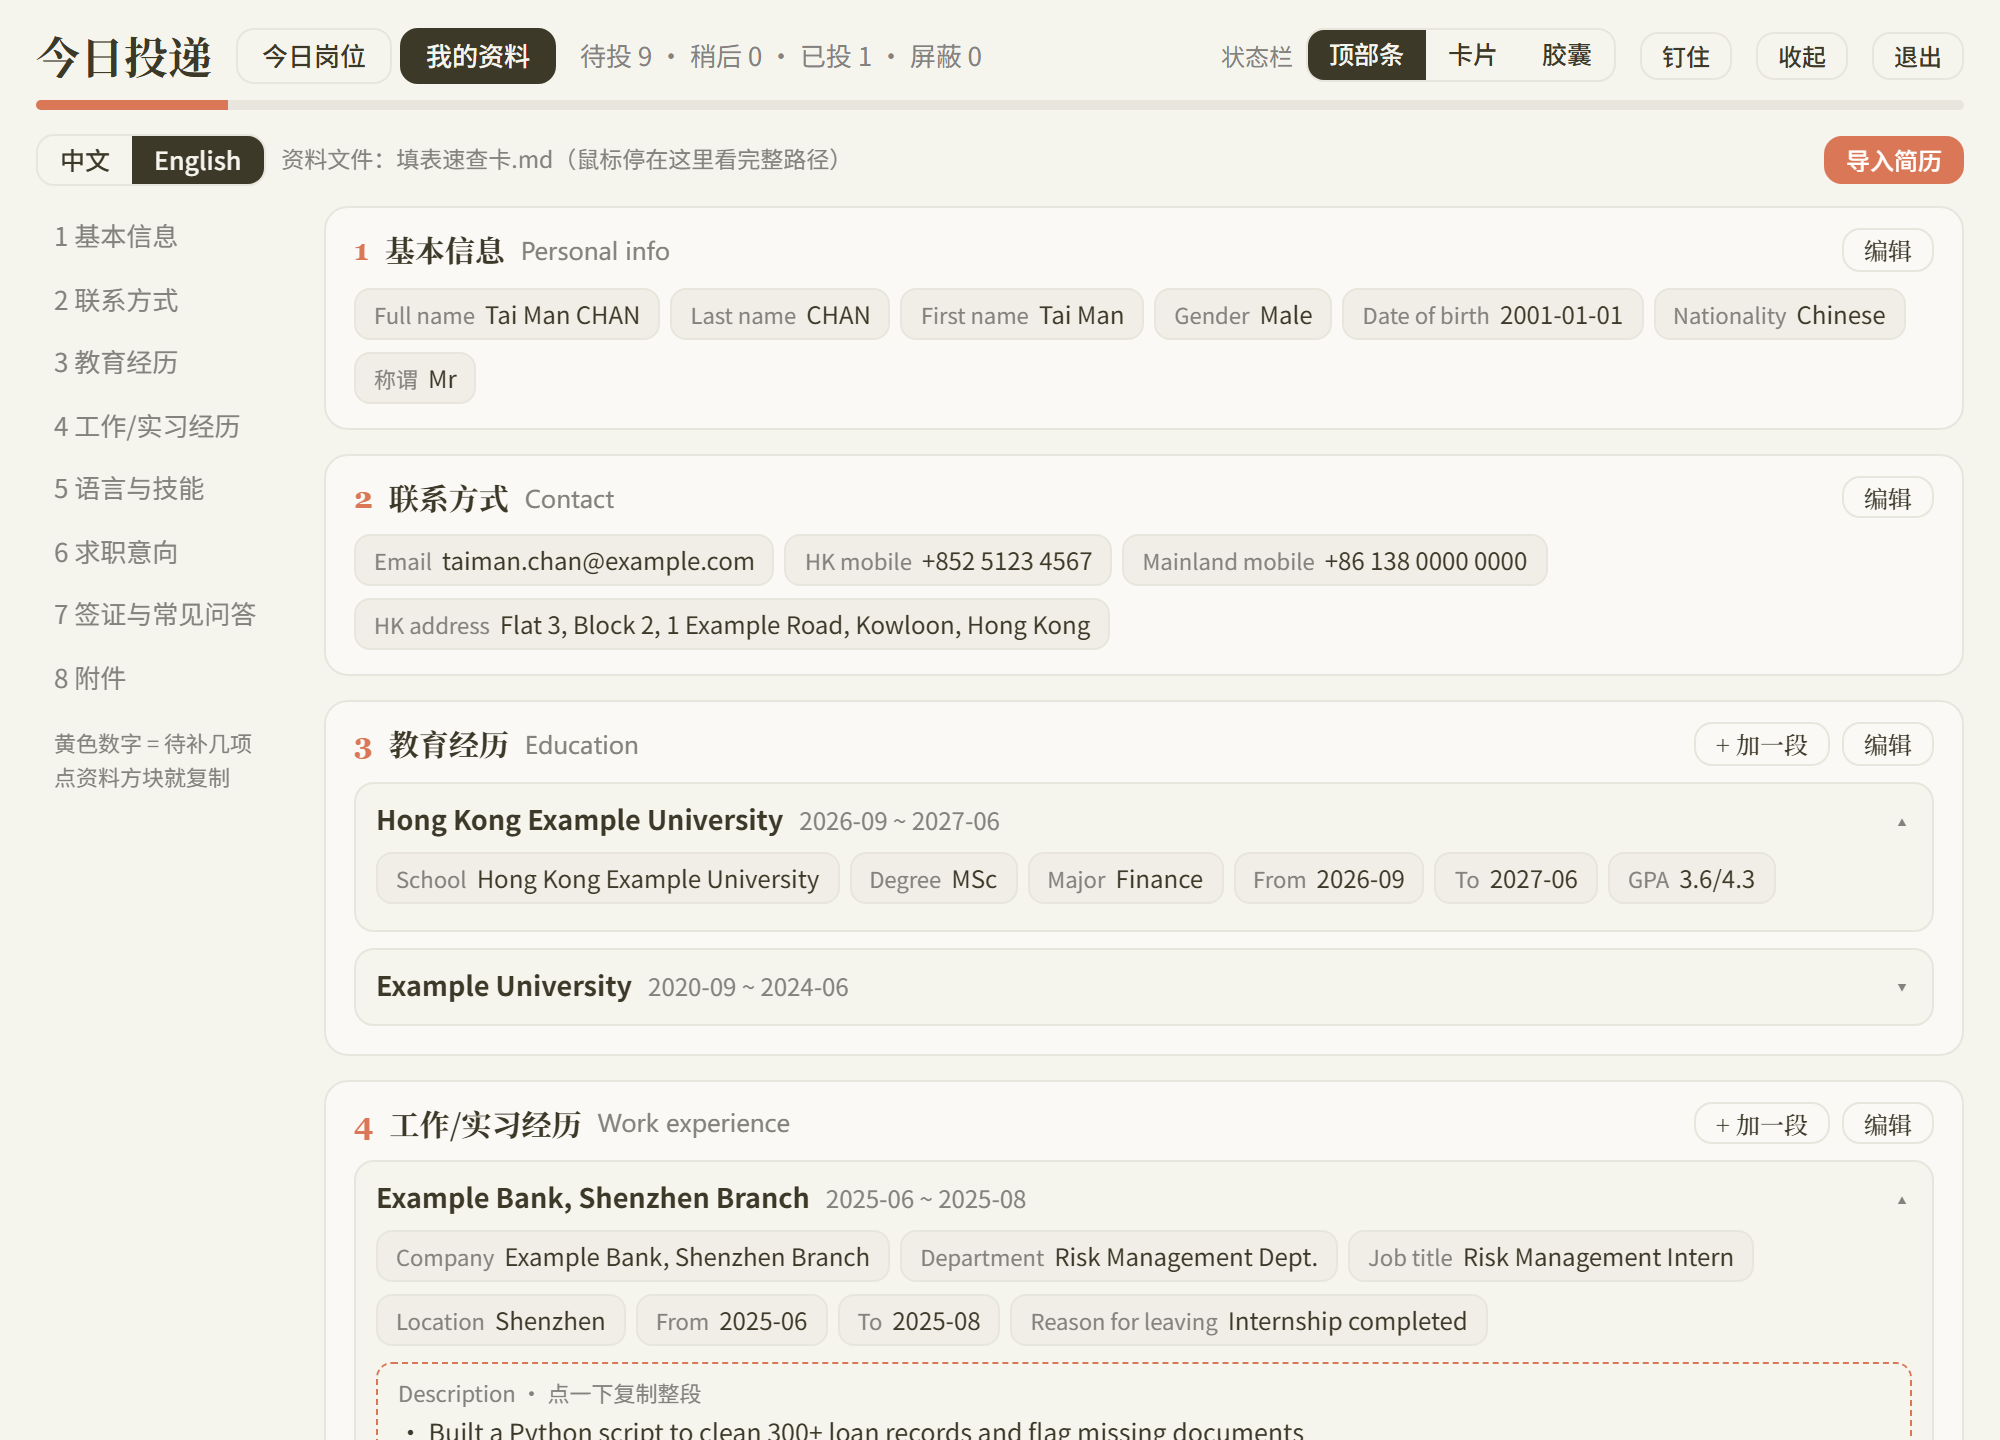
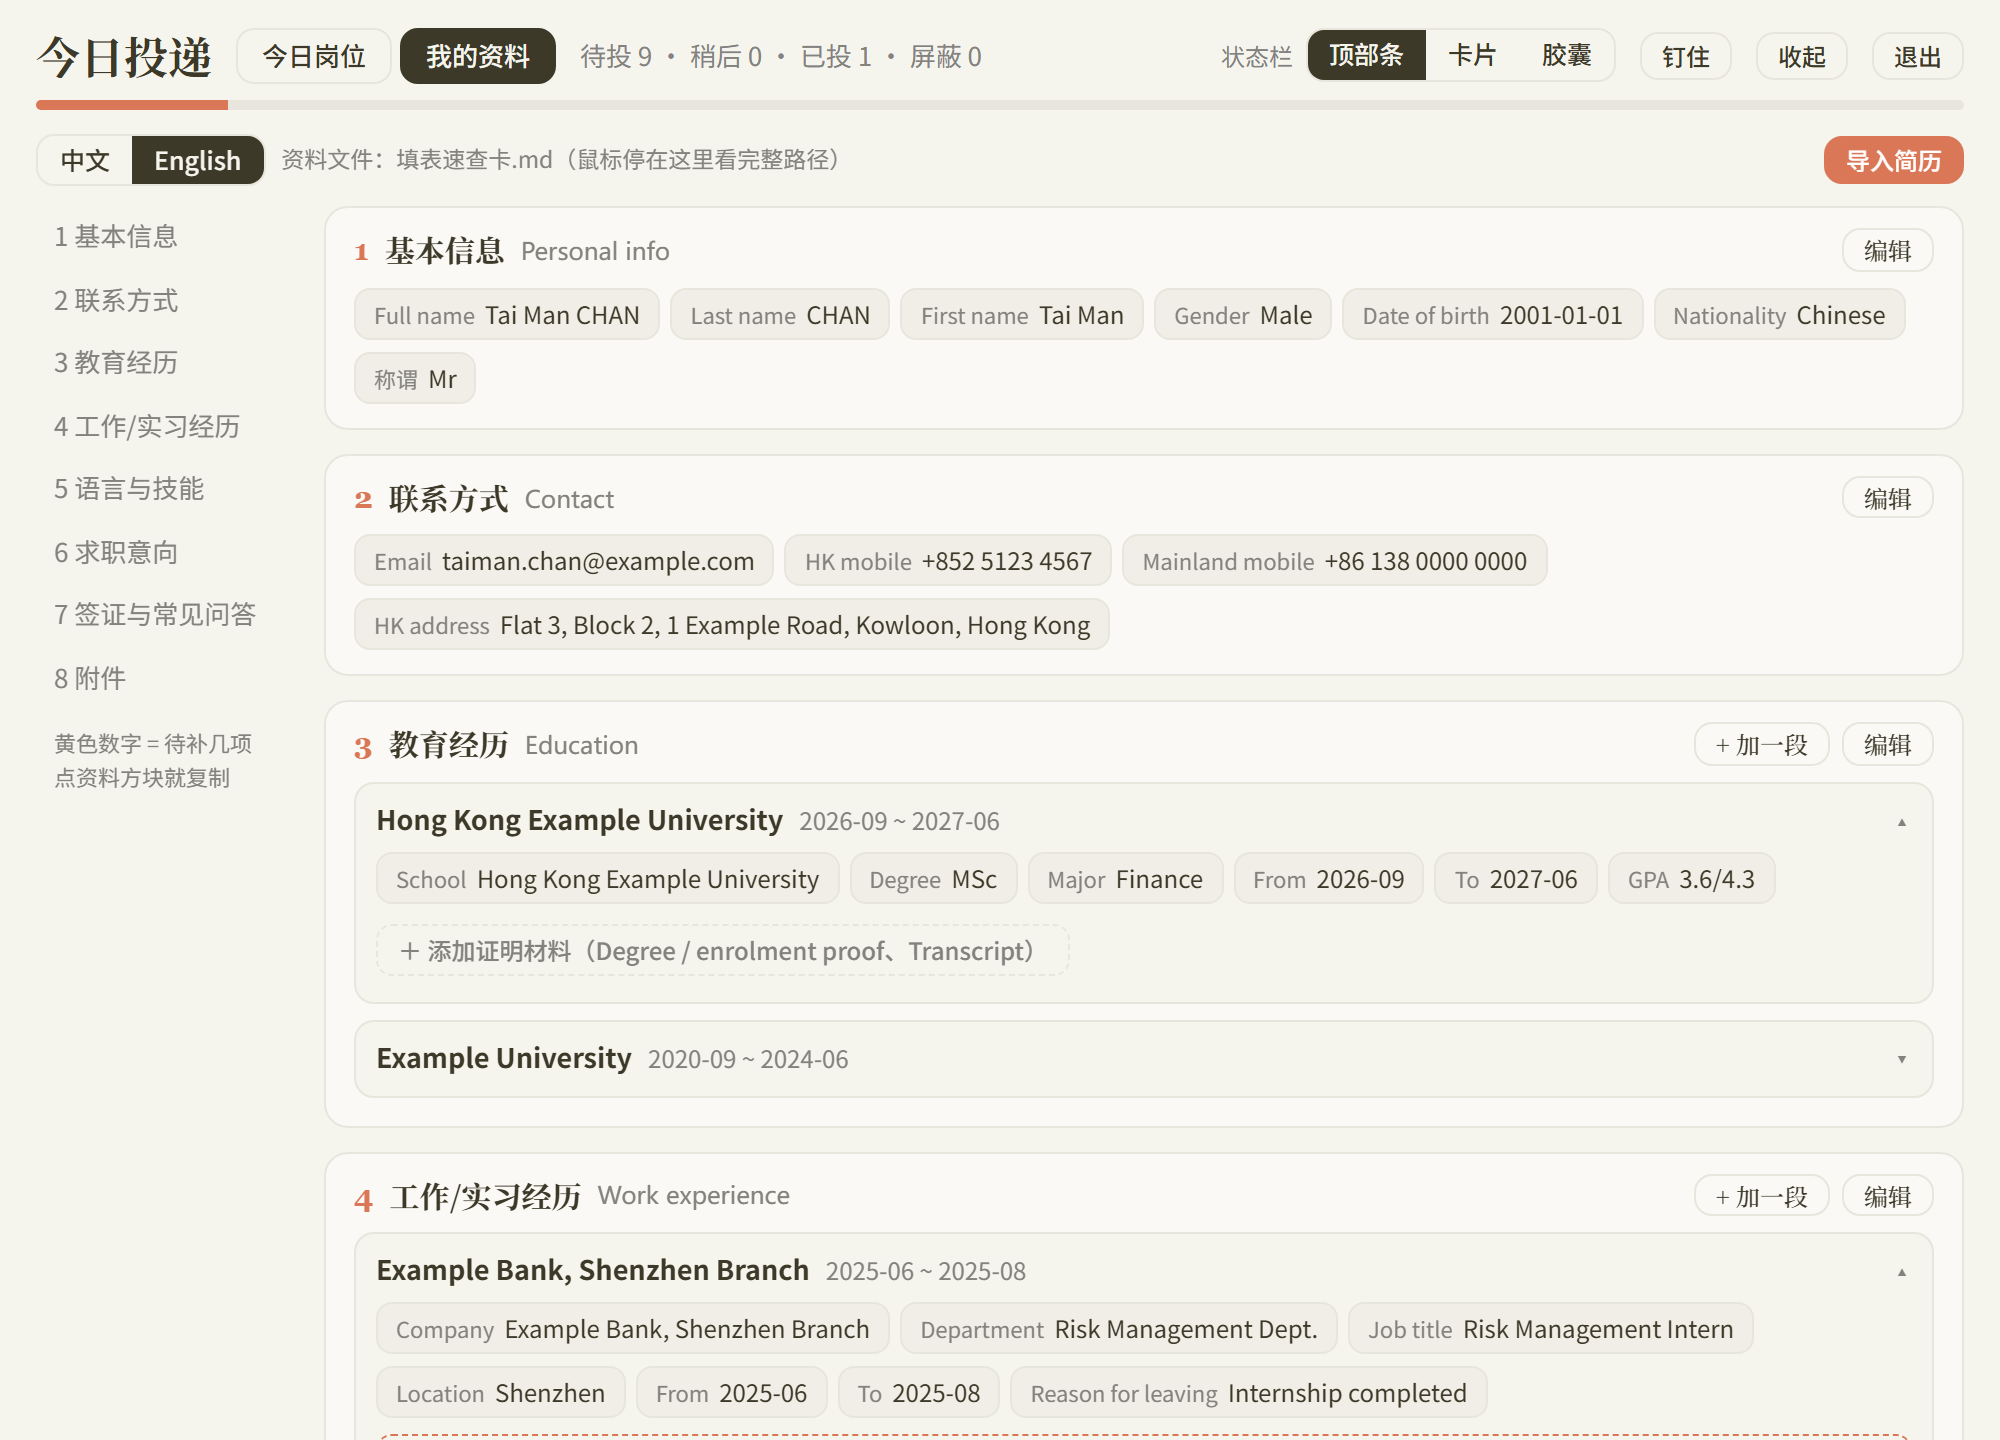
导入预览：日期、类型列不换行；文档截图更新

diff --git a/tools/apply_popup.html b/tools/apply_popup.html
@@ -134,6 +134,7 @@ button.on{background:var(--ink);border-color:var(--ink);color:var(--bg)}
 .jt td span{color:var(--mute)}
 .jt tr.off td{opacity:.5}
 .jt td.why{color:var(--amber);font-size:12px;max-width:220px}
+.jt td.nw{white-space:nowrap}
 .jt td.why small{display:block;color:var(--mute);font-size:11px}
 .qt{display:inline-flex;align-items:center;gap:4px;margin-left:8px;font-size:12px;color:var(--mute)}
 .qt button{font-size:12px;line-height:1;padding:1px 7px;border-radius:6px}
@@ -315,7 +316,7 @@ function jimpHTML(){
  const it=IMPJ.items,n=it.filter(r=>r.pick).length;
  return `<section class="part imp"><h3>认出 ${it.length} 条<span class="r"><button class="p sm" data-a="jimpsave">加进池子（${n} 条）</button><button class="sm" data-a="jimpback">返回修改</button><button class="sm" data-a="jimpcancel">取消</button></span></h3>
  <div class="lab">灰掉的默认不加（已在池子里 / 实习 / 过了截止日），想加就勾上；「港 / 陆」点一下换池子。没给链接的，投的时候卡片上有「搜官网」。</div>
- <table class="jt">${it.map((r,i)=>`<tr class="${r.pick?'':'off'}"><td><input type="checkbox" data-a="jpick" data-i="${i}" ${r.pick?'checked':''}></td><td><button class="sm" data-a="jpool" data-i="${i}">${r.pool==='hk'?'港':'陆'}</button></td><td>${esc(r.deadline||'滚动')}</td><td><b>${esc(r.company)}</b><br><span>${esc(r.title)}</span></td><td>${esc(r.type)}</td><td class="why">${esc(r.why||'')}${r.dup?`<small>${esc(r.dup.company)} · ${esc(r.dup.title)}</small>`:''}</td></tr>`).join('')}</table></section>`}
+ <table class="jt">${it.map((r,i)=>`<tr class="${r.pick?'':'off'}"><td><input type="checkbox" data-a="jpick" data-i="${i}" ${r.pick?'checked':''}></td><td><button class="sm" data-a="jpool" data-i="${i}">${r.pool==='hk'?'港':'陆'}</button></td><td class="nw">${esc(r.deadline||'滚动')}</td><td><b>${esc(r.company)}</b><br><span>${esc(r.title)}</span></td><td class="nw">${esc(r.type)}</td><td class="why">${esc(r.why||'')}${r.dup?`<small>${esc(r.dup.company)} · ${esc(r.dup.title)}</small>`:''}</td></tr>`).join('')}</table></section>`}
 function lfHTML(){
  if(LF.step==='copy')return `<section class="part imp"><h3>批量找链接<span class="r"><button class="sm" data-a="lfcancel">取消</button></span></h3>
  <ol><li>点这里复制 prompt（里面是 ${S.nolink>40?'截止最早的 40':S.nolink} 个没链接的岗位）：<button class="p sm" data-a="lfcopy">复制 prompt</button></li>
